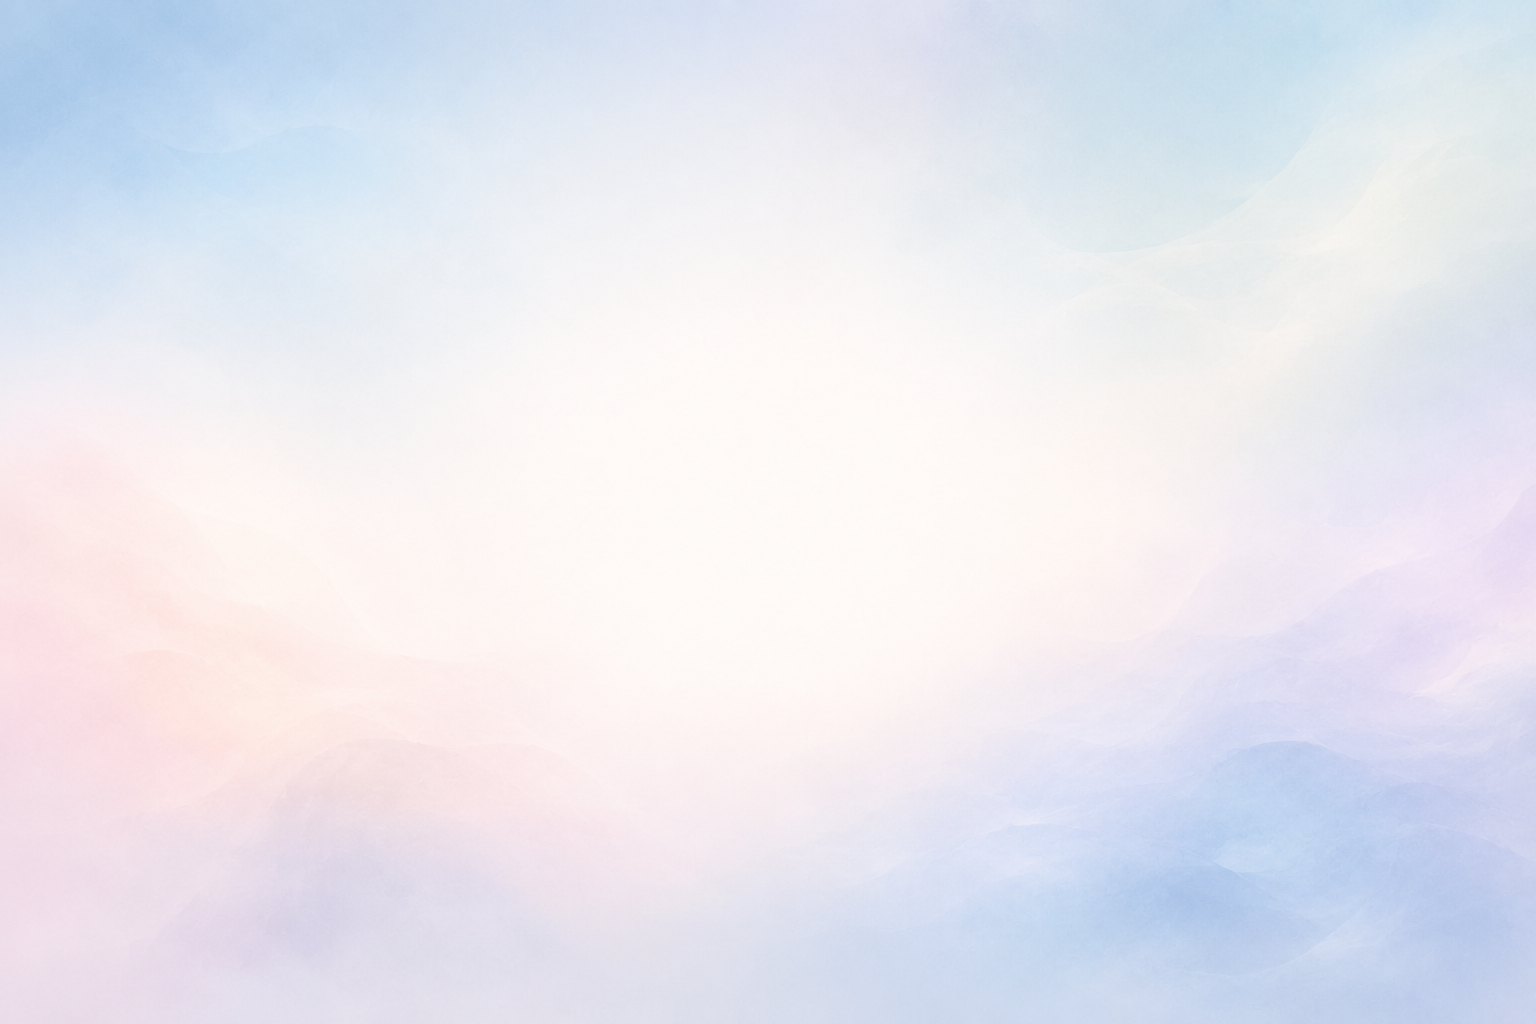
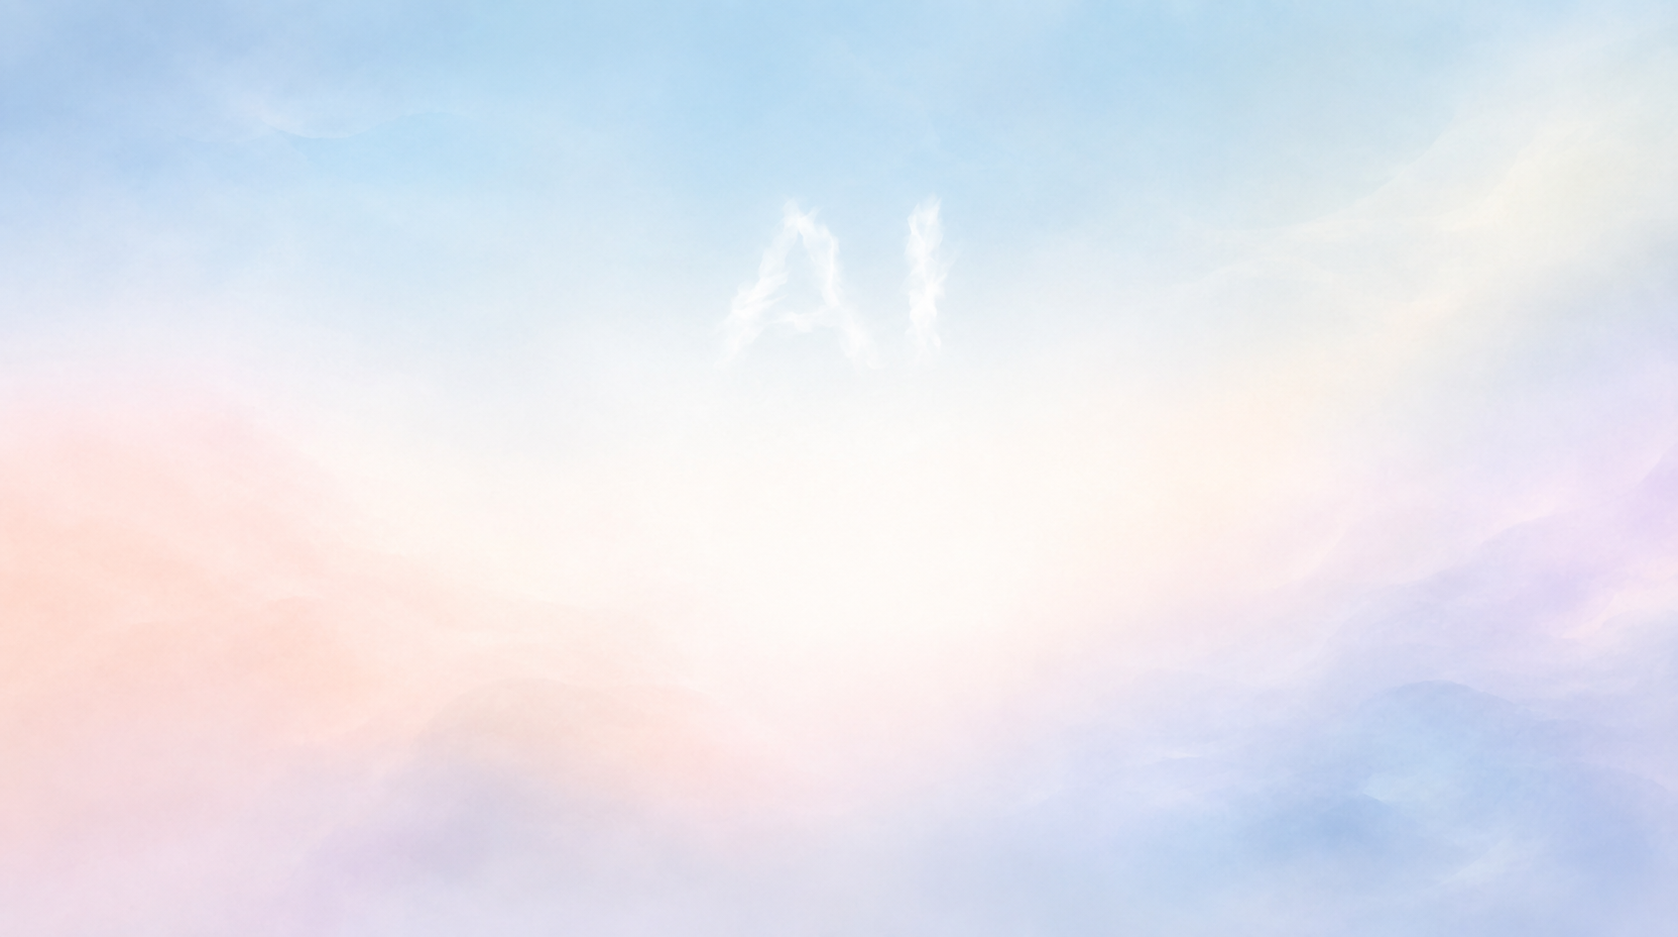
style(hero): adjust hero text position and update background

Changed region(s): [[0.25, 0.0, 0.7188, 0.3095]]

diff --git a/style.css b/style.css
@@ -206,6 +206,7 @@ a {
     color: #111111;
     position: relative;
     display: inline-block;
+    margin-top: 3.5rem;
     margin-bottom: 3.5rem;
 }
 

diff --git a/docs/ideas/hero-ai-background.md b/docs/ideas/hero-ai-background.md
@@ -1,0 +1,28 @@
+# Hero Background "AI" Cloud Integration
+
+## Problem Statement
+Show subtle AI identity inside hero background without adding extra text or cluttering page headline.
+
+## Recommended Direction
+Generate new pastel landscape image matching current warm aesthetic (soft gold, peach, cream, lavender sky). 
+Center-upper area contains natural cloud vapors forming soft, organic "A" and "I". 
+Positioned vertically between top navigation bar and "OneWorld" title.
+
+## Key Assumptions to Validate
+- [ ] Cloud letters stay recognizable as "AI" when viewed at normal desktop zoom (1440px).
+- [ ] Background center stays centered on mobile (390px) without letters getting cut off or hidden behind text.
+- [ ] White text and dark "#111111" hero title keep high contrast against clouds.
+
+## MVP Scope
+- IN: 1 fresh landscape image with centered cloud "AI" vapor.
+- IN: Test image in desktop (1440px) and mobile (390px) views against current layout.
+- OUT: No code or CSS changes needed if image dimensions match current 1920x1080 ratio.
+
+## Not Doing (and Why)
+- Not using hard font watermark — looks like stock photo copyright stamp.
+- Not using neon/cyber glow — breaks warm, human non-profit visual identity.
+- Not adding floating HTML/DOM text elements — keeps hero DOM simple and fast.
+
+## Open Questions
+- Exact letter style preference: lowercase ("ai"), capital ("AI"), or abstract organic shapes that hint at letters?
+- Color tint preference: warm golden sunlight clouds or cooler lilac/sky-blue mist?
